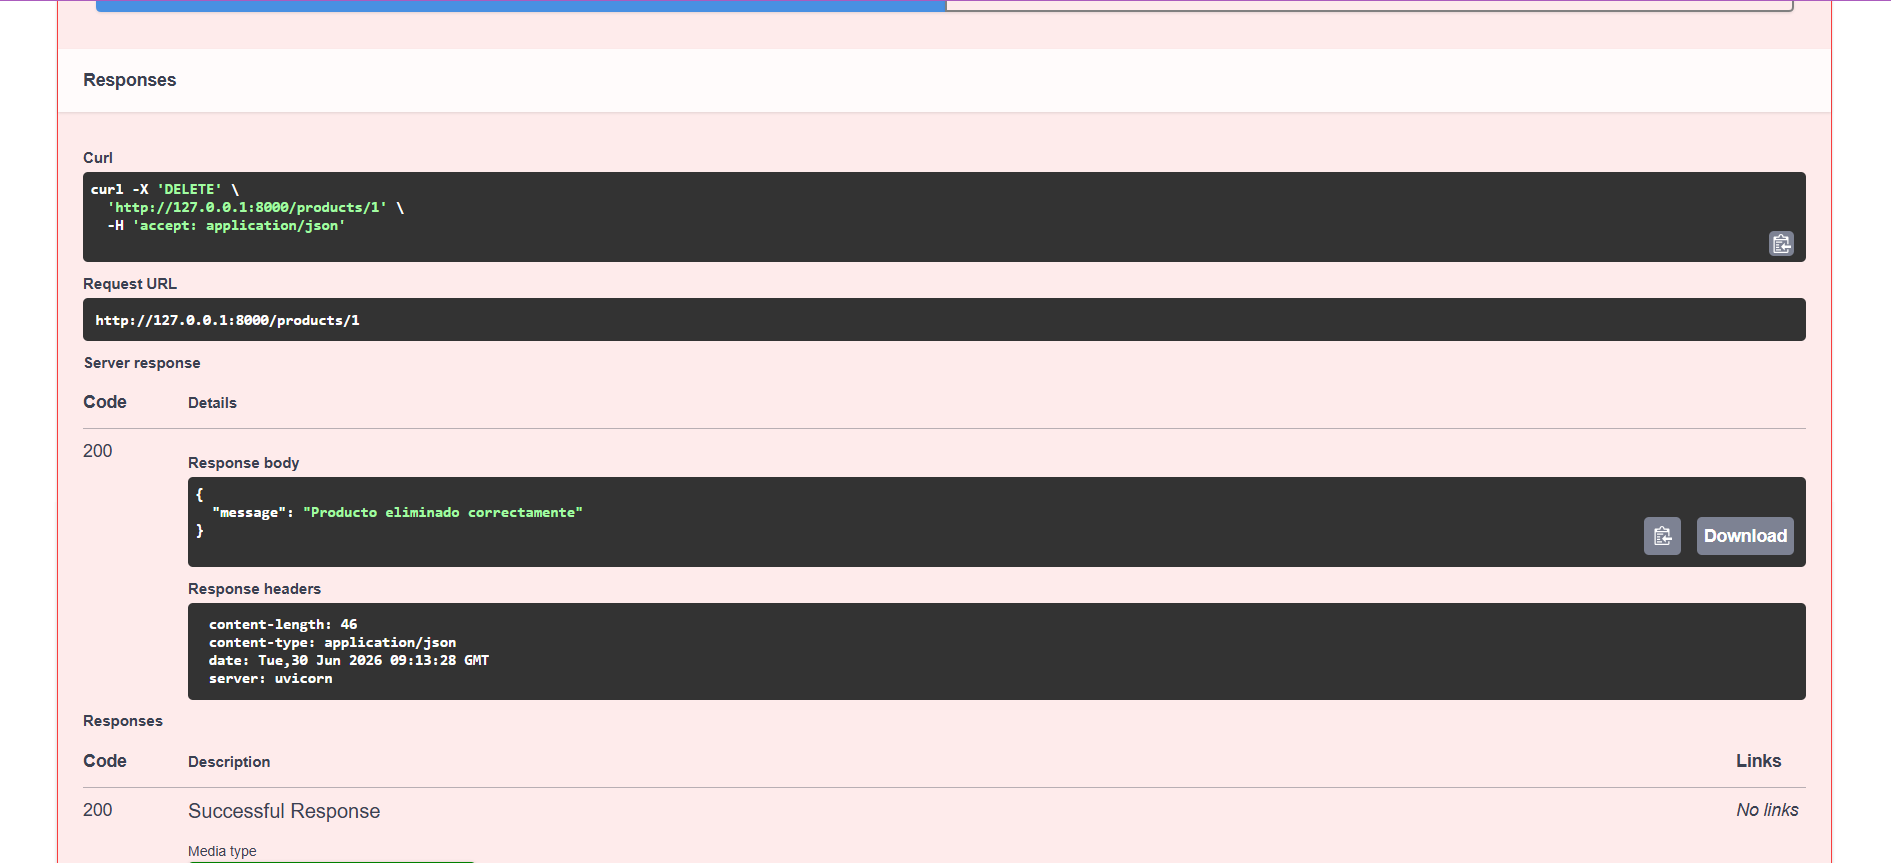
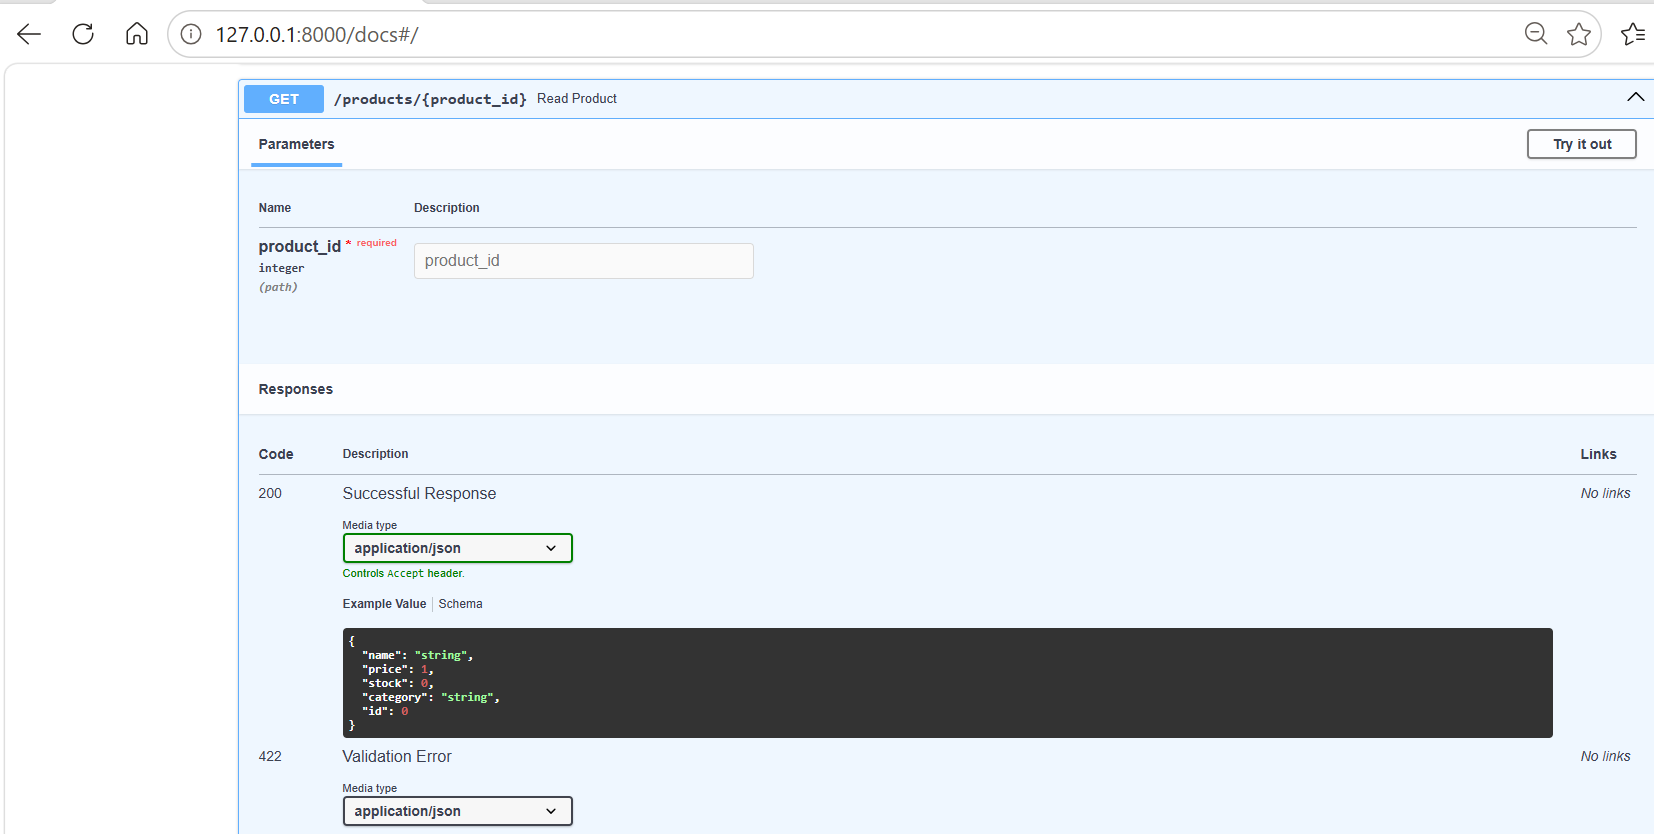
Api productos con base de datos

diff --git a/README.md b/README.md
@@ -144,13 +144,17 @@ Dentro de este archivo se almacena la información de todos los productos.
 ---
 # Capturas de Pantalla 
 
-![Swagger](app/media/image.png)
-
-![Swagger](/app/media/image1.png)
+![Swagger](app/media/image1.png)
 
 ![Swagger](/app/media/image2.png)
 
+![Swagger](/app/media/image3.1.png)
+
 ![Swagger](/app/media/image3.png)
+
+![Swagger](/app/media/image4.png)
+
+![Swagger](/app/media/image5.png)
 
 ---
 
@@ -163,7 +167,7 @@ Este proyecto permitió aplicar los conceptos fundamentales del desarrollo de AP
 
 ## Autor
 
-**Nombre:** Nicol Neira
+**Nombre:** Brayan Steven Moreno Gutierrez
 
 **Proyecto:** API Inventario v1
 